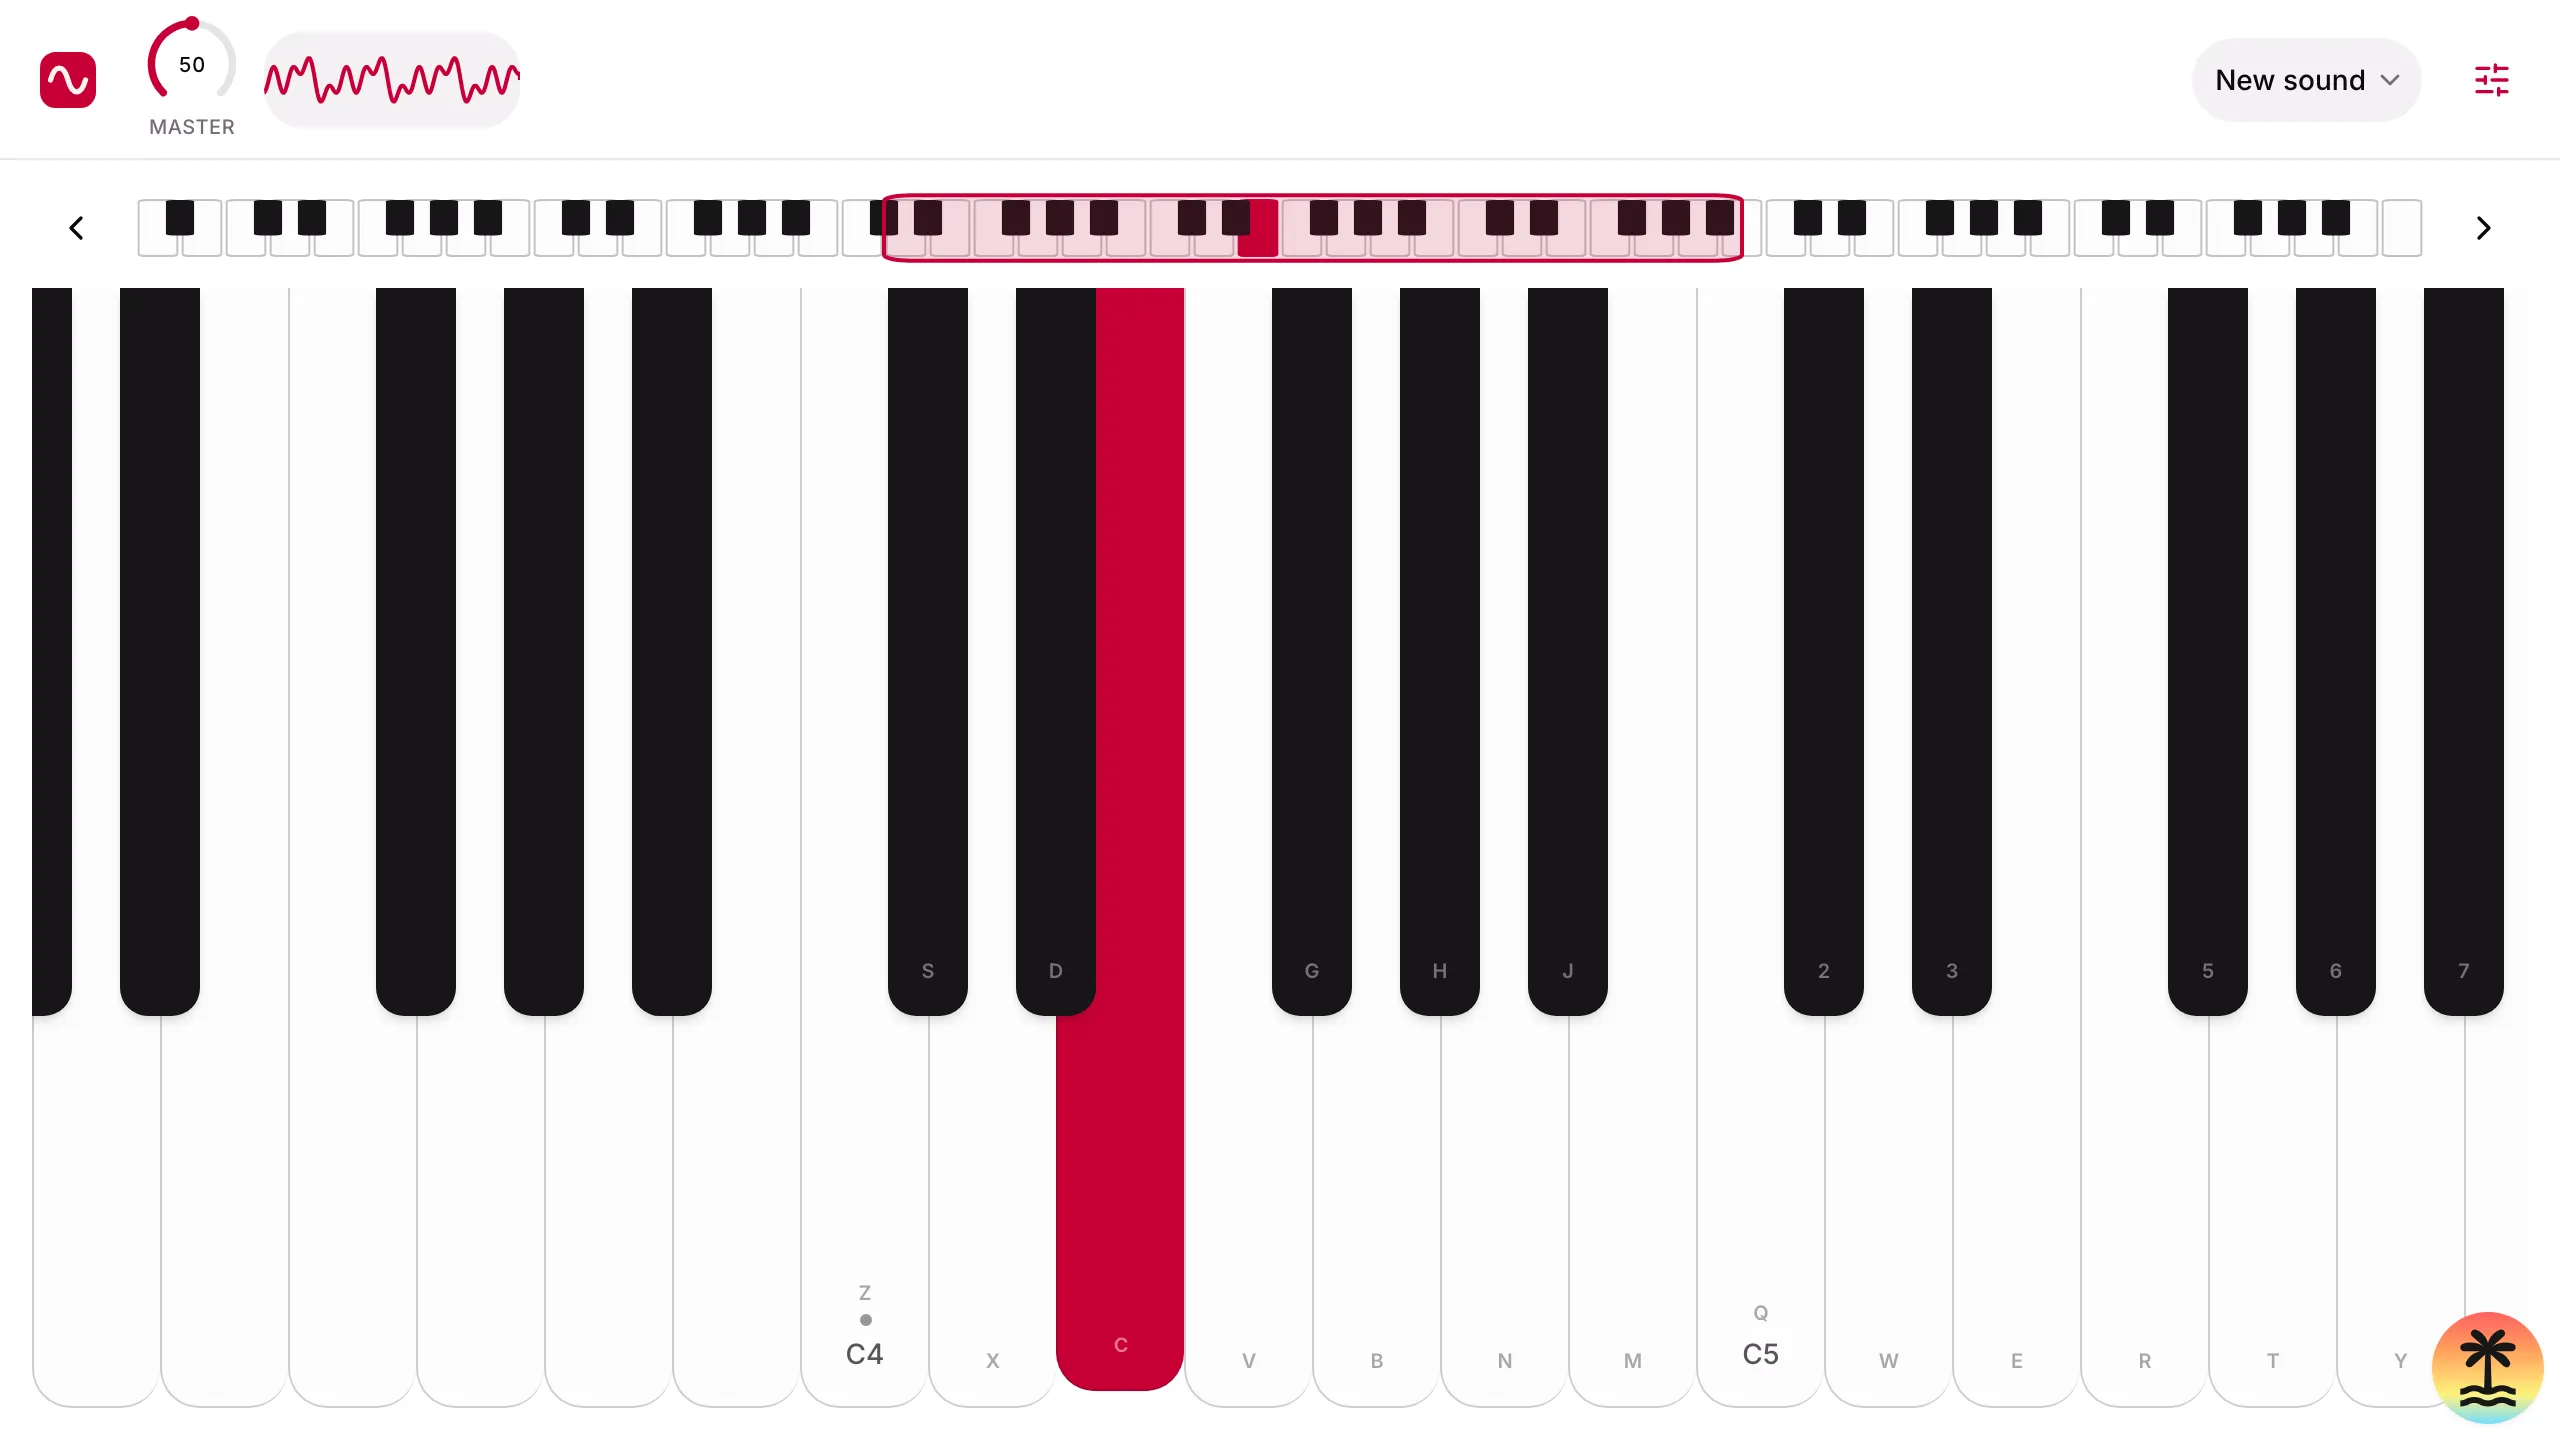
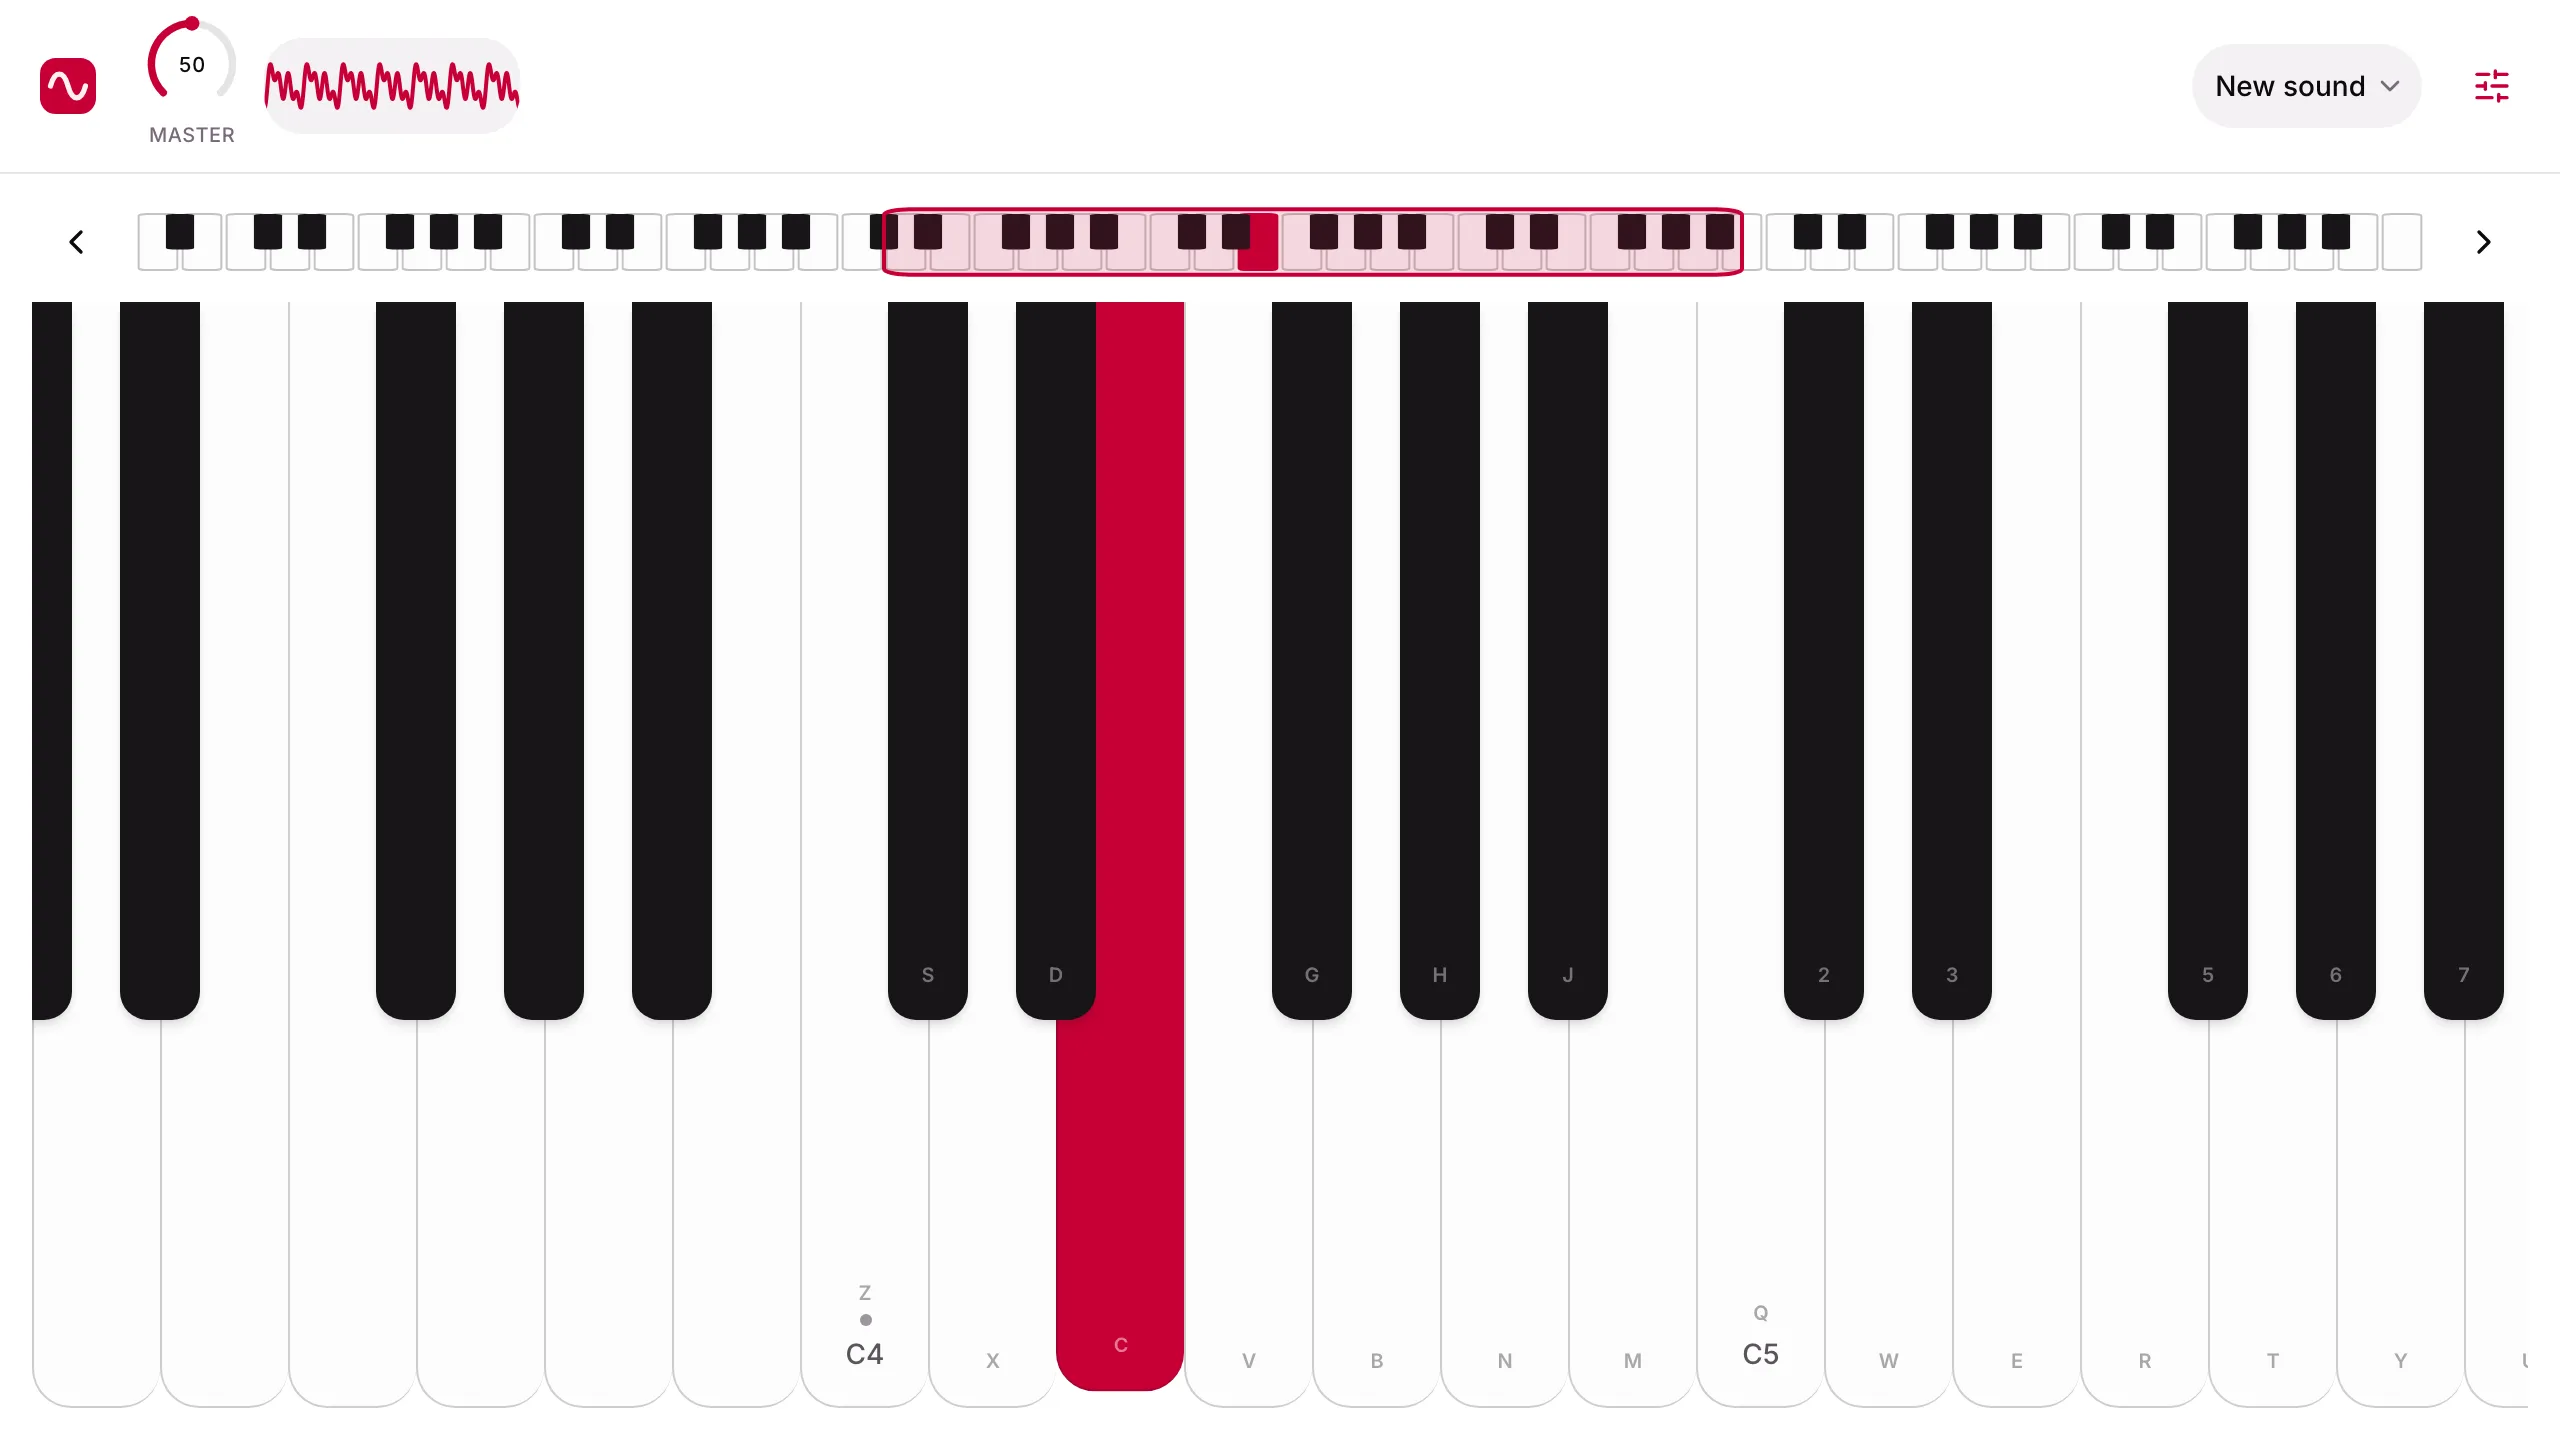
refactor(ui): take the theme tokens from spotstrap
styles.css imports @kodentuzo/spotstrap/tailwind.css and its vinskiano
theme instead of shadcn/tailwind.css and our own token blocks: the same
colors, radii and Inter, now static --color-* values. Dark mode still
follows prefers-color-scheme. Spotstrap's base layer sets borders, the
focus outline and the body's colors and font; ours keeps antialiasing,
overscroll and the pointer cursor.

The secondary button's hover read the old unprefixed --secondary and
--foreground, which no longer exist; it reads --color-* now.

Body text is now spotstrap's 17px (was 16px), so the app bar is a few
pixels taller; screenshots recaptured. CSS gzip 10.30 -> 12.53 kB.

diff --git a/src/styles.css b/src/styles.css
@@ -2,7 +2,11 @@
    pulled in classes from docs and agent skills (e.g. the shadcn skill's example markup). */
 @import "tailwindcss" source(".");
 @import "tw-animate-css";
-@import "shadcn/tailwind.css";
+/* Spotstrap: shadcn's token names as static theme values, touch sizes, the iOS type scale and
+   its component classes; then our theme (crimson on mauve, Inter). Dark mode follows the OS
+   setting (prefers-color-scheme): no script, no flash. */
+@import "@kodentuzo/spotstrap/tailwind.css";
+@import "@kodentuzo/spotstrap/themes/vinskiano.css";
 
 /* Inter, Latin and Latin Extended only (the site is in English; other scripts fall back to the
    system font). The Latin file is preloaded from __root.tsx. "Inter Fallback" is Arial resized to
@@ -39,9 +43,6 @@
   size-adjust: 107.12%;
 }
 
-/* Dark mode follows the OS setting: no script, no flash. */
-@custom-variant dark (@media (prefers-color-scheme: dark));
-
 /* Short screens: a phone in landscape, or held upright (the app turns sideways then, so its
    height is the phone's width). Tightens spacing so everything fits. */
 @custom-variant short {
@@ -50,82 +51,6 @@
   }
   @media (orientation: portrait) and (max-width: 500px) {
     @slot;
-  }
-}
-
-/* shadcn/ui theme: preset b51FfLcNG (style aria-luma, base color mauve). */
-@theme inline {
-  --font-heading: var(--font-sans);
-  --font-sans: "Inter Variable", "Inter Fallback", sans-serif;
-  --color-ring: var(--ring);
-  --color-input: var(--input);
-  --color-border: var(--border);
-  --color-destructive: var(--destructive);
-  --color-accent-foreground: var(--accent-foreground);
-  --color-accent: var(--accent);
-  --color-muted-foreground: var(--muted-foreground);
-  --color-muted: var(--muted);
-  --color-secondary-foreground: var(--secondary-foreground);
-  --color-secondary: var(--secondary);
-  --color-primary-foreground: var(--primary-foreground);
-  --color-primary: var(--primary);
-  --color-popover-foreground: var(--popover-foreground);
-  --color-popover: var(--popover);
-  --color-card-foreground: var(--card-foreground);
-  --color-card: var(--card);
-  --color-foreground: var(--foreground);
-  --color-background: var(--background);
-  --radius-sm: calc(var(--radius) * 0.6);
-  --radius-md: calc(var(--radius) * 0.8);
-  --radius-lg: var(--radius);
-  --radius-xl: calc(var(--radius) * 1.4);
-  --radius-2xl: calc(var(--radius) * 1.8);
-  --radius-3xl: calc(var(--radius) * 2.2);
-  --radius-4xl: calc(var(--radius) * 2.6);
-}
-
-:root {
-  --background: oklch(1 0 0);
-  --foreground: oklch(0.145 0.008 326);
-  --card: oklch(1 0 0);
-  --card-foreground: oklch(0.145 0.008 326);
-  --popover: oklch(1 0 0);
-  --popover-foreground: oklch(0.145 0.008 326);
-  --primary: oklch(0.514 0.222 16.935);
-  --primary-foreground: oklch(0.969 0.015 12.422);
-  --secondary: oklch(0.967 0.001 286.375);
-  --secondary-foreground: oklch(0.21 0.006 285.885);
-  --muted: oklch(0.96 0.003 325.6);
-  --muted-foreground: oklch(0.542 0.034 322.5);
-  --accent: oklch(0.96 0.003 325.6);
-  --accent-foreground: oklch(0.212 0.019 322.12);
-  --destructive: oklch(0.577 0.245 27.325);
-  --border: oklch(0.922 0.005 325.62);
-  --input: oklch(0.922 0.005 325.62);
-  --ring: oklch(0.711 0.019 323.02);
-  --radius: 0.875rem;
-}
-
-@media (prefers-color-scheme: dark) {
-  :root {
-    --background: oklch(0.145 0.008 326);
-    --foreground: oklch(0.985 0 0);
-    --card: oklch(0.212 0.019 322.12);
-    --card-foreground: oklch(0.985 0 0);
-    --popover: oklch(0.212 0.019 322.12);
-    --popover-foreground: oklch(0.985 0 0);
-    --primary: oklch(0.455 0.188 13.697);
-    --primary-foreground: oklch(0.969 0.015 12.422);
-    --secondary: oklch(0.274 0.006 286.033);
-    --secondary-foreground: oklch(0.985 0 0);
-    --muted: oklch(0.263 0.024 320.12);
-    --muted-foreground: oklch(0.711 0.019 323.02);
-    --accent: oklch(0.263 0.024 320.12);
-    --accent-foreground: oklch(0.985 0 0);
-    --destructive: oklch(0.704 0.191 22.216);
-    --border: oklch(1 0 0 / 10%);
-    --input: oklch(1 0 0 / 15%);
-    --ring: oklch(0.542 0.034 322.5);
   }
 }
 
@@ -153,17 +78,10 @@
   }
 }
 
+/* Spotstrap's base sets borders, the focus outline, and the body's colors, font and size. */
 @layer base {
-  * {
-    @apply border-border outline-ring/50;
-  }
-
-  html {
-    @apply font-sans;
-  }
-
   body {
-    @apply bg-background text-foreground antialiased;
+    @apply antialiased;
     overscroll-behavior: contain;
   }
 

diff --git a/src/components/ui/button-variants.ts b/src/components/ui/button-variants.ts
@@ -11,7 +11,7 @@ const buttonStyles = cva(
         outline:
           'border-border bg-background hover:bg-muted hover:text-foreground aria-expanded:bg-muted aria-expanded:text-foreground dark:bg-transparent dark:hover:bg-input/30',
         secondary:
-          'border-transparent bg-secondary text-secondary-foreground hover:bg-[color-mix(in_oklch,var(--secondary),var(--foreground)_5%)] aria-expanded:bg-secondary aria-expanded:text-secondary-foreground',
+          'border-transparent bg-secondary text-secondary-foreground hover:bg-[color-mix(in_oklch,var(--color-secondary),var(--color-foreground)_5%)] aria-expanded:bg-secondary aria-expanded:text-secondary-foreground',
         ghost:
           'border-transparent hover:bg-muted hover:text-foreground aria-expanded:bg-muted aria-expanded:text-foreground dark:hover:bg-muted/50',
         destructive:
